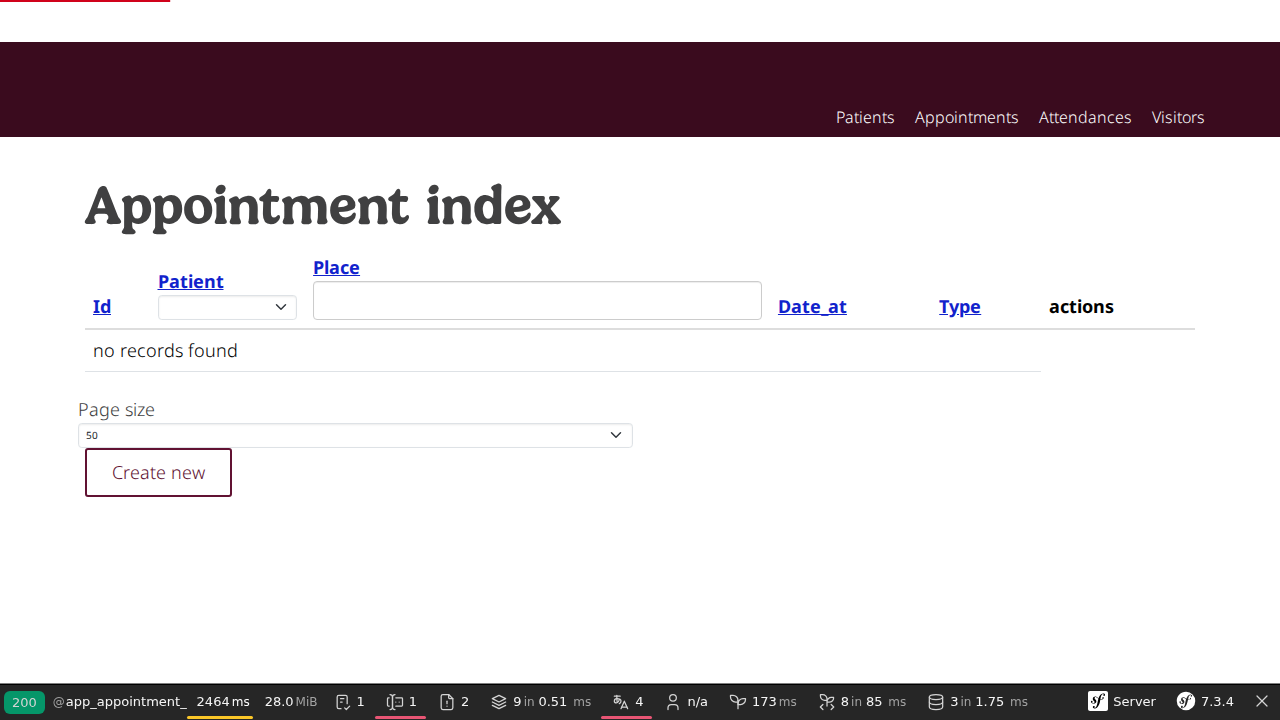
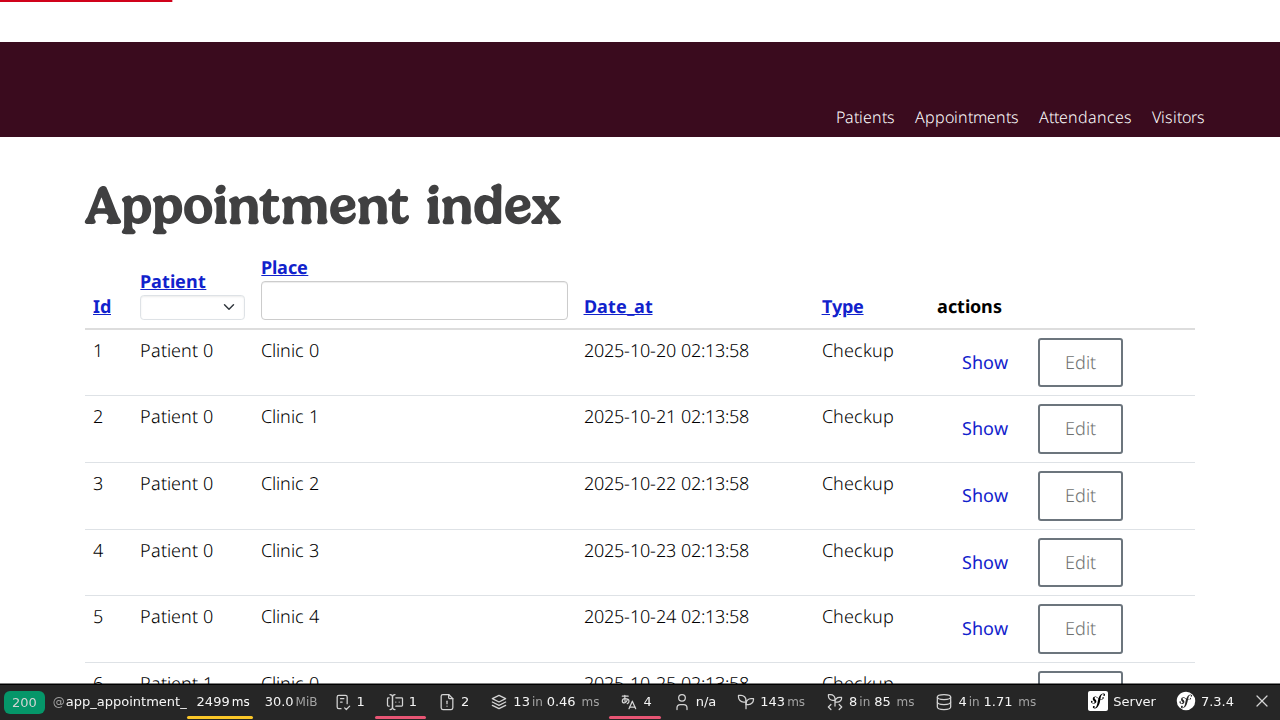
Refactor: Replaced PagerFanta with UX-Table on the appointment index page to enable searching and sorting.
This commit replaces the `babdev/pagerfanta-bundle` with `wedevelopnl/ux-table` for the appointment index page.

- Installed `wedevelopnl/ux-table` and its dependencies.
- Created an `AppointmentTable` class to define the table structure, filters, and sortable columns.
- Updated the `AppointmentController` to use the new `AppointmentTable` service.
- Rewrote the `appointment/index.html.twig` template to use the UX-Table Twig components.
- The new implementation provides filtering by patient and place, and sorting on all columns.
- Added initial database migration and data fixtures for testing.

diff --git a/src/DataFixtures/AppFixtures.php b/src/DataFixtures/AppFixtures.php
@@ -1,0 +1,35 @@
+<?php
+
+namespace App\DataFixtures;
+
+use App\Entity\Appointment;
+use App\Entity\Patient;
+use Doctrine\Bundle\FixturesBundle\Fixture;
+use Doctrine\Persistence\ObjectManager;
+
+class AppFixtures extends Fixture
+{
+    public function load(ObjectManager $manager): void
+    {
+        // Create 10 Patients
+        for ($i = 0; $i < 10; $i++) {
+            $patient = new Patient();
+            $patient->setName('Patient ' . $i);
+            $patient->setFile('P00' . $i);
+            $patient->setDisability(false);
+            $manager->persist($patient);
+
+            // Create 5 appointments for each patient
+            for ($j = 0; $j < 5; $j++) {
+                $appointment = new Appointment();
+                $appointment->setPatient($patient);
+                $appointment->setPlace('Clinic ' . $j);
+                $appointment->setDateAt(new \DateTimeImmutable('now + ' . ($i * 5 + $j) . ' days'));
+                $appointment->setType('Checkup');
+                $manager->persist($appointment);
+            }
+        }
+
+        $manager->flush();
+    }
+}

diff --git a/config/bundles.php b/config/bundles.php
@@ -18,4 +18,5 @@ return [
     Symfony\UX\TwigComponent\TwigComponentBundle::class => ['all' => true],
     Knp\Bundle\PaginatorBundle\KnpPaginatorBundle::class => ['all' => true],
     WeDevelop\UXTable\WeDevelopUXTableBundle::class => ['all' => true],
+    Doctrine\Bundle\FixturesBundle\DoctrineFixturesBundle::class => ['dev' => true, 'test' => true],
 ];
